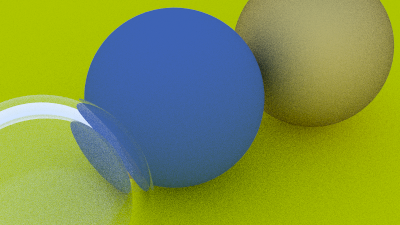
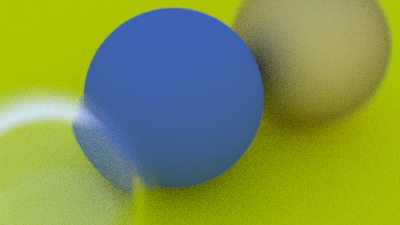
add defocus blur

diff --git a/src/camera.rs b/src/camera.rs
@@ -8,14 +8,19 @@ use crate::ray::Ray;
 use crate::vec3::{Color, Point3, Vec3};
 
 pub struct Camera {
-    aspect_ratio: f64,        // Ratio of image width over height
-    image_width: u32,         // Rendered image width in pixel count
-    samples_per_pixel: u32,   // Count of random samples for each pixel
-    max_depth: u32,           // Maximum number of ray bounces in scene
-    vfov: f64,                // Vertical view angle (field of view)
-    look_from: Point3,        // Point camera is looking from
-    look_at: Point3,          // Point camera is looking at
-    vup: Vec3,                // Camera-relative "up" direction
+    aspect_ratio: f64,      // Ratio of image width over height
+    image_width: u32,       // Rendered image width in pixel count
+    samples_per_pixel: u32, // Count of random samples for each pixel
+    max_depth: u32,         // Maximum number of ray bounces in scene
+
+    vfov: f64,         // Vertical view angle (field of view)
+    look_from: Point3, // Point camera is looking from
+    look_at: Point3,   // Point camera is looking at
+    vup: Vec3,         // Camera-relative "up" direction
+
+    defocus_angle: f64, // Variation angle of rays through each pixel
+    focus_dist: f64,    // Distance from camera look_from point to plane of perfect focus
+
     image_height: u32,        // Rendered image height
     pixel_samples_scale: f64, // Color scale factor for a sum of pixel samples
     center: Point3,           // Camera center
@@ -26,6 +31,8 @@ pub struct Camera {
     u: Vec3,
     v: Vec3,
     w: Vec3,
+    defocus_disk_u: Vec3, // Defocus disk horizontal radius
+    defocus_disk_v: Vec3, // Defocus disk vertical radius
 }
 
 impl Camera {
@@ -38,6 +45,8 @@ impl Camera {
         look_from: Point3,
         look_at: Point3,
         vup: Vec3,
+        defocus_angle: f64,
+        focus_dist: f64,
     ) -> Self {
         let mut cam = Self {
             aspect_ratio,
@@ -48,6 +57,8 @@ impl Camera {
             look_from,
             look_at,
             vup,
+            defocus_angle,
+            focus_dist,
             image_height: 1,
             pixel_samples_scale: 1.0,
             center: Point3::default(),
@@ -57,6 +68,8 @@ impl Camera {
             u: Vec3::default(),
             v: Vec3::default(),
             w: Vec3::default(),
+            defocus_disk_u: Vec3::default(),
+            defocus_disk_v: Vec3::default(),
         };
         cam.initialize();
 
@@ -99,10 +112,9 @@ impl Camera {
         self.center = self.look_from.clone();
 
         // Determine viewport dimensions
-        let focal_length = (&self.look_from - &self.look_at).length();
         let theta = self.vfov.to_radians();
         let h = (theta / 2.).tan();
-        let viewport_height = 2. * h * focal_length;
+        let viewport_height = 2. * h * self.focus_dist;
         let viewport_width =
             viewport_height * f64::from(self.image_width) / f64::from(self.image_height);
 
@@ -120,8 +132,13 @@ impl Camera {
 
         // Calculate the location of the upper left pixel
         let viewport_upper_left =
-            &self.center - (focal_length * &self.w) - viewport_u / 2. - viewport_v / 2.;
+            &self.center - (self.focus_dist * &self.w) - viewport_u / 2. - viewport_v / 2.;
         self.pixel00_loc = viewport_upper_left + 0.5 * (&self.pixel_delta_u + &self.pixel_delta_v);
+
+        // Calculate the camera defocus disk basis vectors
+        let defocus_radius = self.focus_dist * (self.defocus_angle / 2.).to_radians().tan();
+        self.defocus_disk_u = &self.u * defocus_radius;
+        self.defocus_disk_v = &self.v * defocus_radius;
     }
 
     fn ray_color(ray: &Ray, depth: u32, world: &impl Hittable) -> Color {
@@ -145,7 +162,7 @@ impl Camera {
         (1. - a) * white + a * blue
     }
 
-    /// Construct a camera ray originating from the origin and directed at
+    /// Construct a camera ray originating from the defocus disk and directed at
     /// a randomly sampled point around the pixel location (i, j)
     fn get_ray(&self, i: f64, j: f64) -> Ray {
         let offset = Self::sample_square();
@@ -153,7 +170,11 @@ impl Camera {
             + (&self.pixel_delta_u * (i + offset.x()))
             + (&self.pixel_delta_v * (j + offset.y()));
 
-        let ray_origin = &self.center;
+        let ray_origin = if self.defocus_angle <= 0. {
+            &self.center
+        } else {
+            &self.defocus_disk_sample()
+        };
         let ray_direction = pixel_sample - ray_origin;
 
         Ray::new(ray_origin.clone(), ray_direction)
@@ -163,6 +184,12 @@ impl Camera {
     fn sample_square() -> Vec3 {
         let mut rng = rand::thread_rng();
         Vec3::new(rng.gen::<f64>() - 0.5, rng.gen::<f64>() - 0.5, 0.)
+    }
+
+    /// Returns a random point in the camera defocus disk
+    fn defocus_disk_sample(&self) -> Point3 {
+        let p = Vec3::random_in_unit_disk();
+        &self.center + (p[0] * &self.defocus_disk_u) + (p[1] * &self.defocus_disk_v)
     }
 
     fn calculate_image_height(image_width: f64, aspect_ratio: f64) -> u32 {

diff --git a/src/vec3.rs b/src/vec3.rs
@@ -3,7 +3,7 @@ use std::ops::{
     Add, AddAssign, Div, DivAssign, Index, IndexMut, Mul, MulAssign, Neg, Sub, SubAssign,
 };
 
-use rand::Rng;
+use rand::{Rng, thread_rng};
 
 use crate::color::linear_to_gamma;
 use crate::interval::Interval;
@@ -63,6 +63,18 @@ impl Vec3 {
             on_unit_sphere
         } else {
             -on_unit_sphere
+        }
+    }
+
+    pub fn random_in_unit_disk() -> Self {
+        let mut rng = thread_rng();
+        loop {
+            let p = Self {
+                e: [rng.gen_range(-1.0..0.0), rng.gen_range(-1.0..1.0), 0.0],
+            };
+            if p.length_squared() < 1. {
+                return p;
+            }
         }
     }
 

diff --git a/src/main.rs b/src/main.rs
@@ -25,6 +25,8 @@ const VFOV: f64 = 20.;
 const LOOK_FROM: Point3 = Point3::new(-2., 2., 1.);
 const LOOK_AT: Point3 = Point3::new(0., 0., -1.);
 const VUP: Vec3 = Vec3::new(0., 1., 0.);
+const DEFOCUS_ANGLE: f64 = 10.;
+const FOCUS_DIST: f64 = 3.4;
 
 fn main() {
     // Materials
@@ -71,6 +73,8 @@ fn main() {
         LOOK_FROM,
         LOOK_AT,
         VUP,
+        DEFOCUS_ANGLE,
+        FOCUS_DIST,
     );
 
     camera.render(&world);
